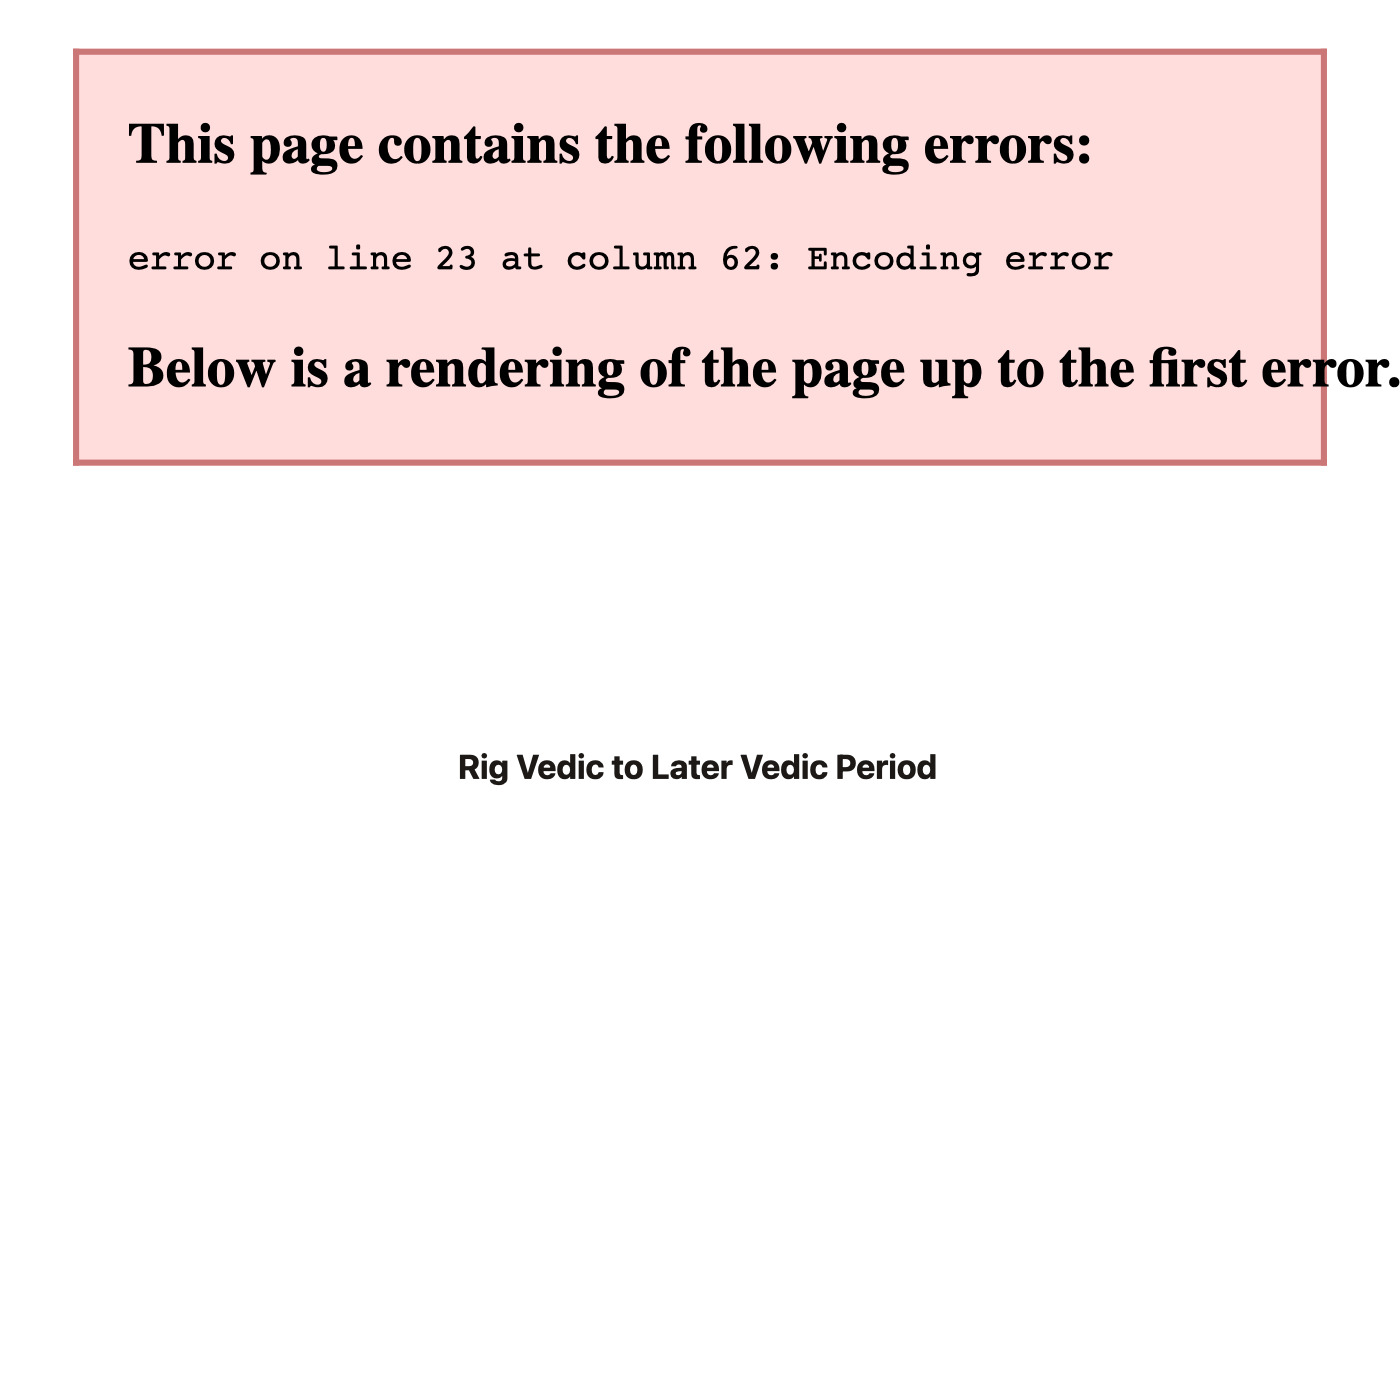
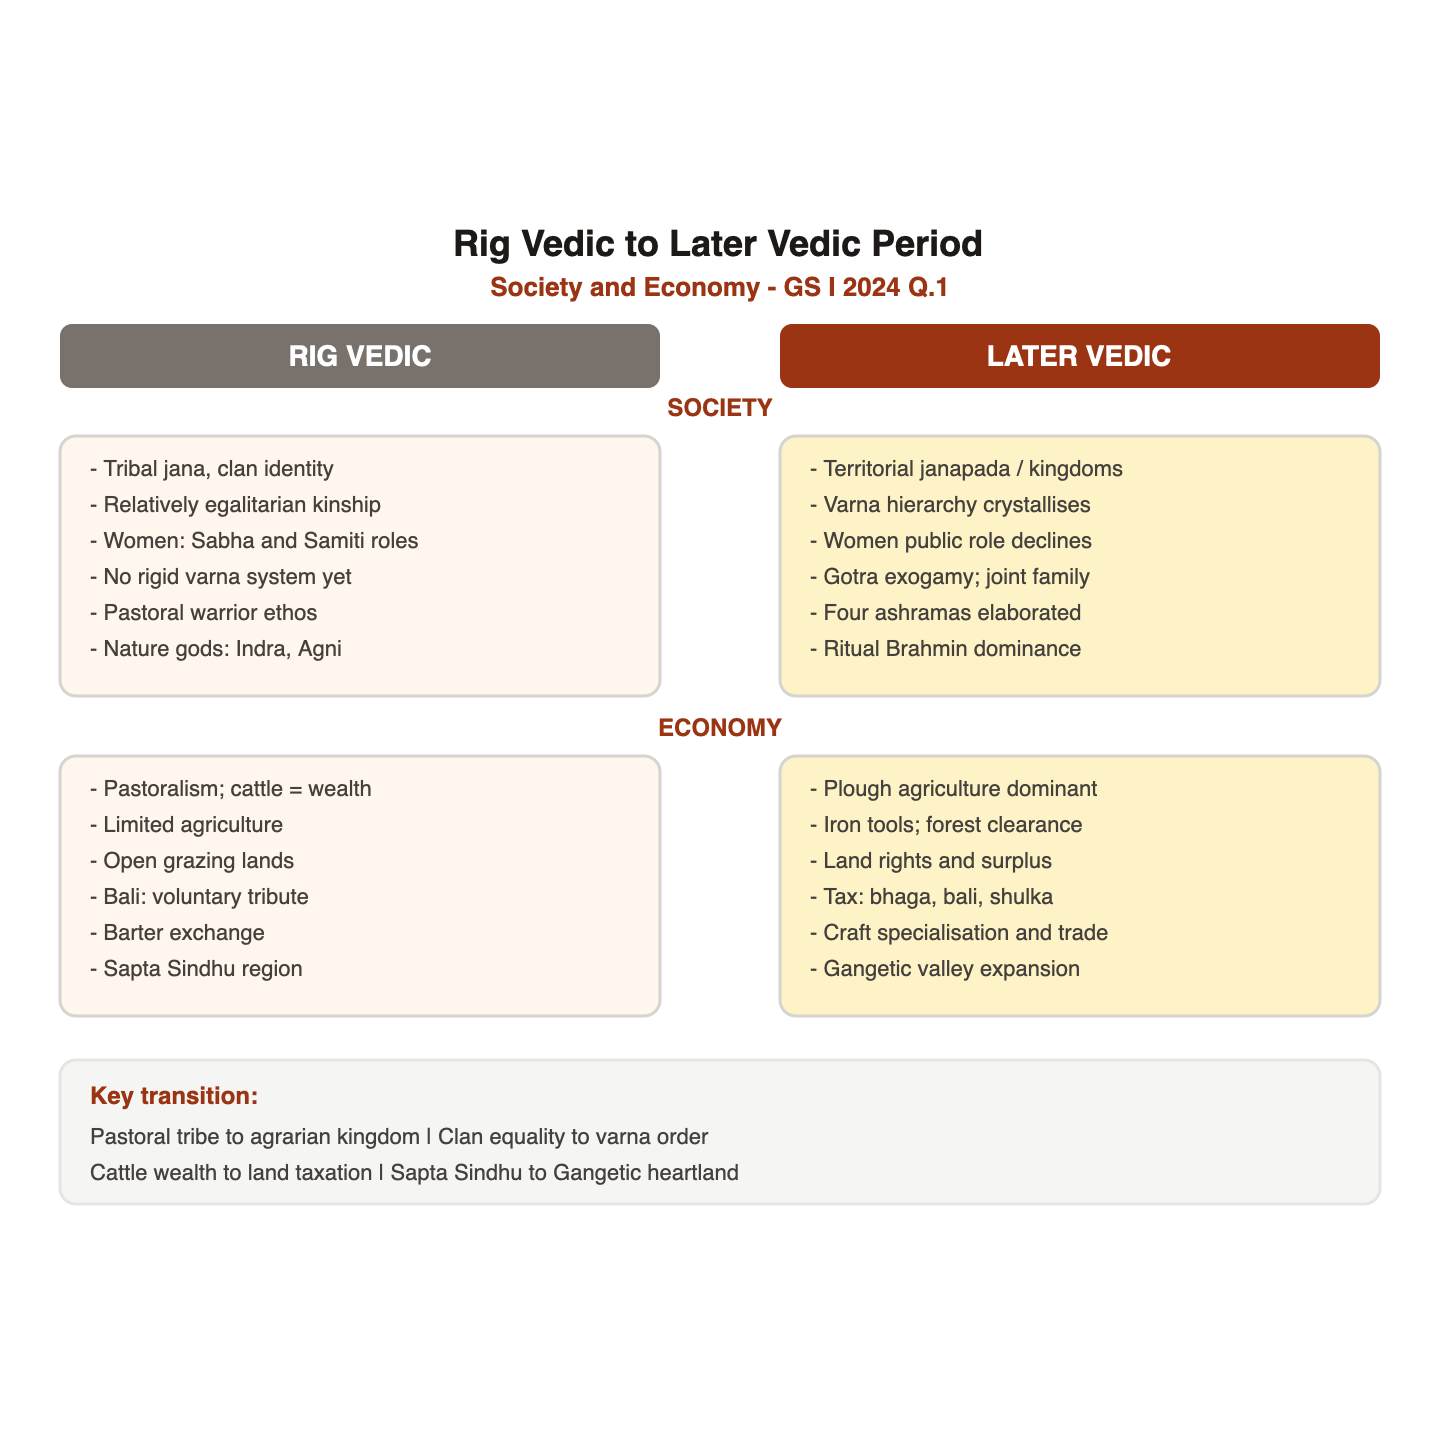
Fix broken PNG diagram (SVG encoding error in prior export).
Regenerate clean comparison image; cache-bust PNG URLs in app.

diff --git a/js/study-materials.js b/js/study-materials.js
@@ -145,9 +145,10 @@ async function renderImageSection(section, basePath) {
     `;
   }
 
+  const cacheBust = `?t=${Date.now()}`;
   return `
     <figure class="study-figure study-figure--standalone">
-      <img src="${escapeHtml(src)}" alt="${escapeHtml(alt)}" loading="lazy">
+      <img src="${escapeHtml(src)}${cacheBust}" alt="${escapeHtml(alt)}" loading="lazy">
       ${captionHtml}
     </figure>
   `;